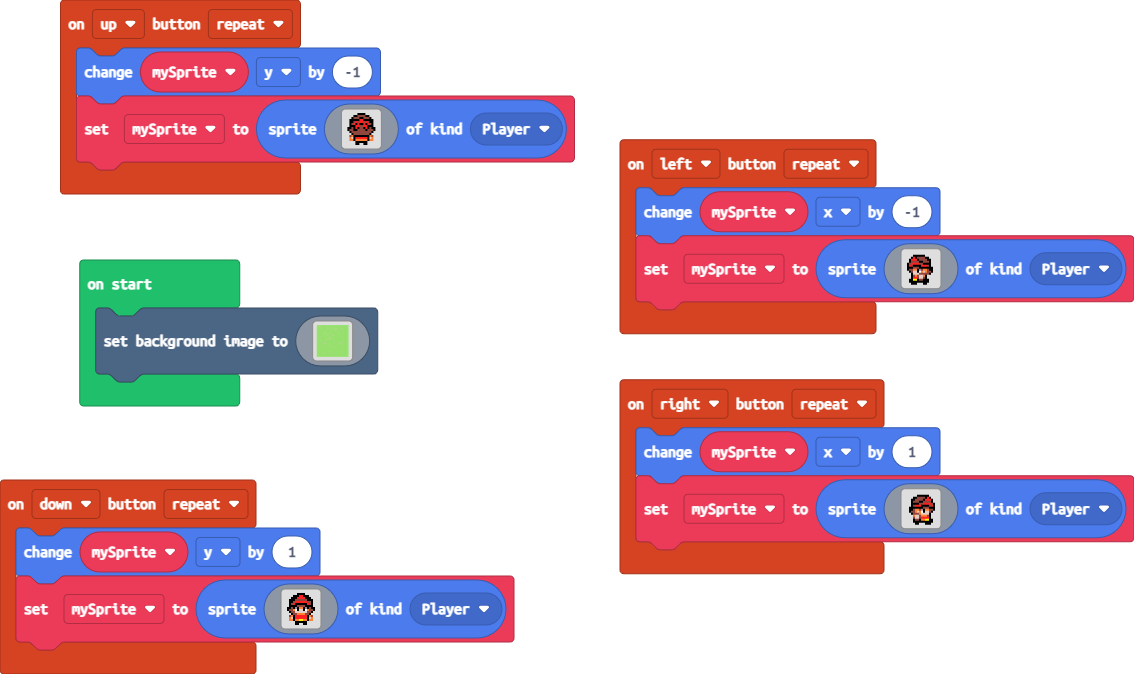
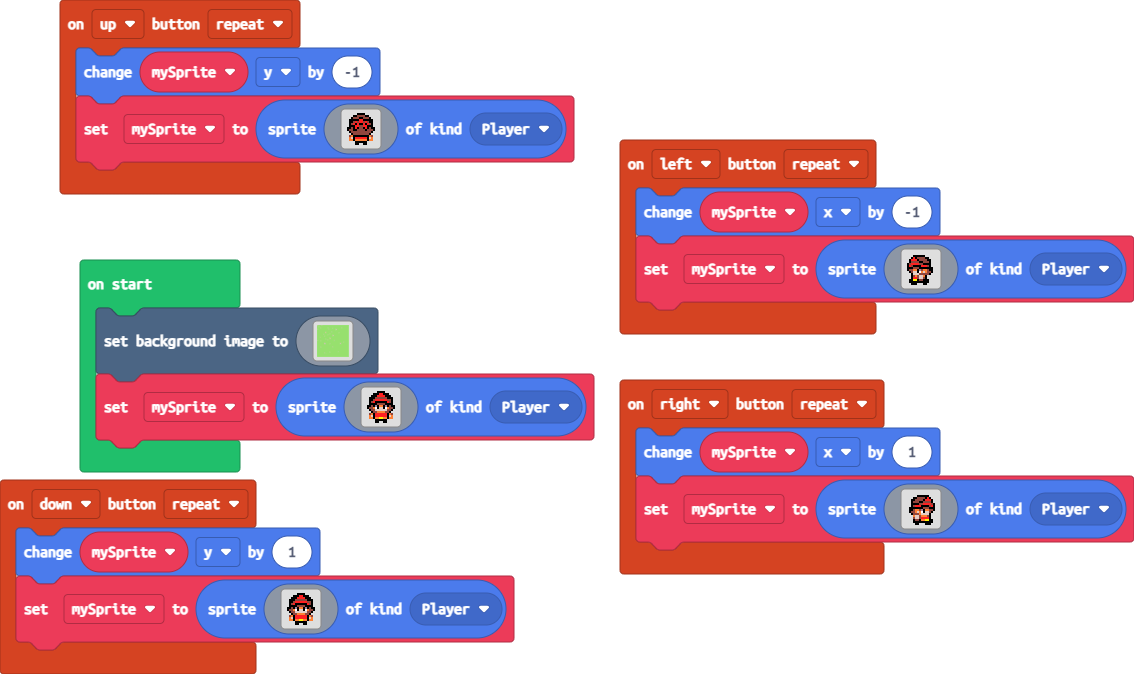
Update main.blocks, main.ts, main.py

diff --git a/main.ts b/main.ts
@@ -84,3 +84,21 @@ controller.left.onEvent(ControllerButtonEvent.Repeated, function () {
 })
 let mySprite: Sprite = null
 scene.setBackgroundImage(assets.image`core-level`)
+mySprite = sprites.create(img`
+    . . . . . . f f f f . . . . . . 
+    . . . . f f f 2 2 f f f . . . . 
+    . . . f f f 2 2 2 2 f f f . . . 
+    . . f f f e e e e e e f f f . . 
+    . . f f e 2 2 2 2 2 2 e e f . . 
+    . . f e 2 f f f f f f 2 e f . . 
+    . . f f f f e e e e f f f f . . 
+    . f f e f b f 4 4 f b f e f f . 
+    . f e e 4 1 f d d f 1 4 e e f . 
+    . . f e e d d d d d d e e f . . 
+    . . . f e e 4 4 4 4 e e f . . . 
+    . . e 4 f 2 2 2 2 2 2 f 4 e . . 
+    . . 4 d f 2 2 2 2 2 2 f d 4 . . 
+    . . 4 4 f 4 4 5 5 4 4 f 4 4 . . 
+    . . . . . f f f f f f . . . . . 
+    . . . . . f f . . f f . . . . . 
+    `, SpriteKind.Player)

diff --git a/main.py b/main.py
@@ -1,13 +1,30 @@
 def on_up_repeated():
+    global mySprite
     mySprite.y += -1
+    mySprite = sprites.create(img("""
+            . . . . . . f f f f . . . . . . 
+                    . . . . f f e e e e f f . . . . 
+                    . . . f e e e f f e e e f . . . 
+                    . . f f f f f 2 2 f f f f f . . 
+                    . . f f e 2 e 2 2 e 2 e f f . . 
+                    . . f e 2 f 2 f f 2 f 2 e f . . 
+                    . . f f f 2 2 e e 2 2 f f f . . 
+                    . f f e f 2 f e e f 2 f e f f . 
+                    . f e e f f e e e e f e e e f . 
+                    . . f e e e e e e e e e e f . . 
+                    . . . f e e e e e e e e f . . . 
+                    . . e 4 f f f f f f f f 4 e . . 
+                    . . 4 d f 2 2 2 2 2 2 f d 4 . . 
+                    . . 4 4 f 4 4 4 4 4 4 f 4 4 . . 
+                    . . . . . f f f f f f . . . . . 
+                    . . . . . f f . . f f . . . . .
+        """),
+        SpriteKind.player)
 controller.up.on_event(ControllerButtonEvent.REPEATED, on_up_repeated)
 
 def on_right_repeated():
-    mySprite.x += 1
-controller.right.on_event(ControllerButtonEvent.REPEATED, on_right_repeated)
-
-def game_tick():
     global mySprite
+    mySprite.x += 1
     mySprite = sprites.create(img("""
             . . . . . . . . . . . . . . . . 
                     . . . . . . f f f f f f . . . . 
@@ -27,17 +44,57 @@ def game_tick():
                     . . . . . f f . . . f f f . . .
         """),
         SpriteKind.player)
+controller.right.on_event(ControllerButtonEvent.REPEATED, on_right_repeated)
 
 def on_down_repeated():
+    global mySprite
     mySprite.y += 1
+    mySprite = sprites.create(img("""
+            . . . . . . f f f f . . . . . . 
+                    . . . . f f f 2 2 f f f . . . . 
+                    . . . f f f 2 2 2 2 f f f . . . 
+                    . . f f f e e e e e e f f f . . 
+                    . . f f e 2 2 2 2 2 2 e e f . . 
+                    . . f e 2 f f f f f f 2 e f . . 
+                    . . f f f f e e e e f f f f . . 
+                    . f f e f b f 4 4 f b f e f f . 
+                    . f e e 4 1 f d d f 1 4 e e f . 
+                    . . f e e d d d d d d e e f . . 
+                    . . . f e e 4 4 4 4 e e f . . . 
+                    . . e 4 f 2 2 2 2 2 2 f 4 e . . 
+                    . . 4 d f 2 2 2 2 2 2 f d 4 . . 
+                    . . 4 4 f 4 4 5 5 4 4 f 4 4 . . 
+                    . . . . . f f f f f f . . . . . 
+                    . . . . . f f . . f f . . . . .
+        """),
+        SpriteKind.player)
 controller.down.on_event(ControllerButtonEvent.REPEATED, on_down_repeated)
 
 def on_left_repeated():
+    global mySprite
     mySprite.x += -1
+    mySprite = sprites.create(img("""
+            . . . . . . . . . . . . . . . . 
+                    . . . . f f f f f f . . . . . . 
+                    . . . f 2 f e e e e f f . . . . 
+                    . . f 2 2 2 f e e e e f f . . . 
+                    . . f e e e e f f e e e f . . . 
+                    . f e 2 2 2 2 e e f f f f . . . 
+                    . f 2 e f f f f 2 2 2 e f . . . 
+                    . f f f e e e f f f f f f f . . 
+                    . f e e 4 4 f b e 4 4 e f f . . 
+                    . . f e d d f 1 4 d 4 e e f . . 
+                    . . . f d d d e e e e e f . . . 
+                    . . . f e 4 e d d 4 f . . . . . 
+                    . . . f 2 2 e d d e f . . . . . 
+                    . . f f 5 5 f e e f f f . . . . 
+                    . . f f f f f f f f f f . . . . 
+                    . . . f f f . . . f f . . . . .
+        """),
+        SpriteKind.player)
 controller.left.on_event(ControllerButtonEvent.REPEATED, on_left_repeated)
 
 mySprite: Sprite = None
 scene.set_background_image(assets.image("""
     core-level
 """))
-game_tick()
